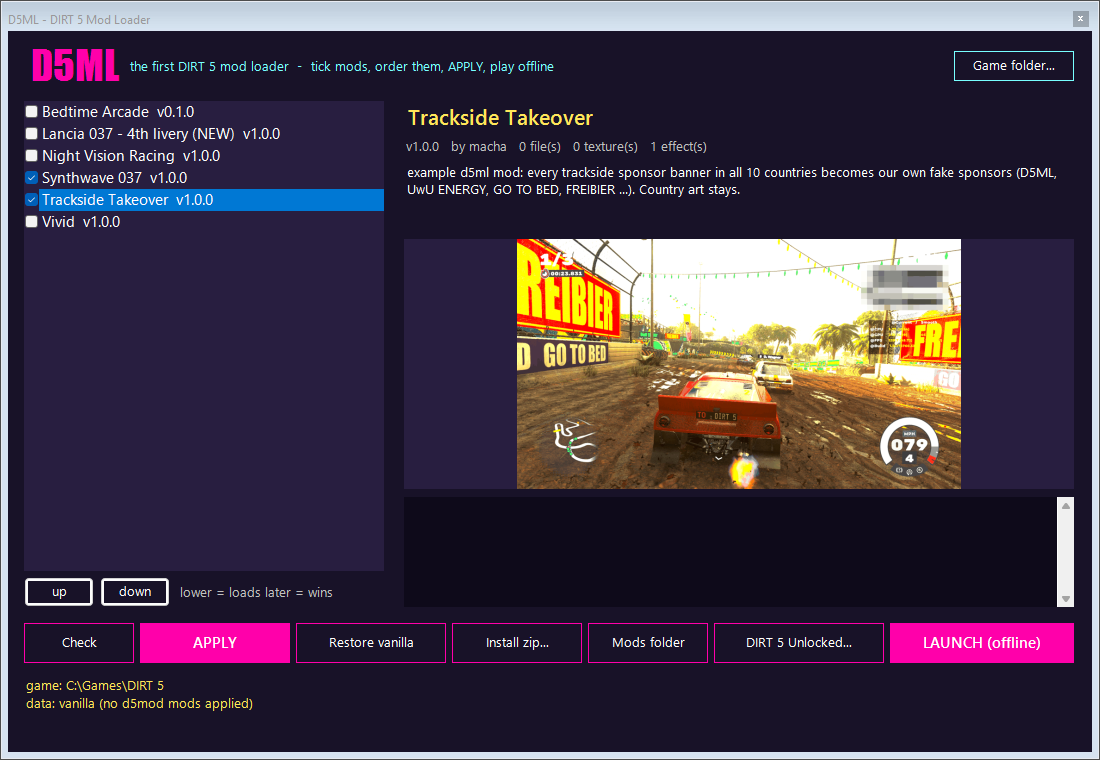
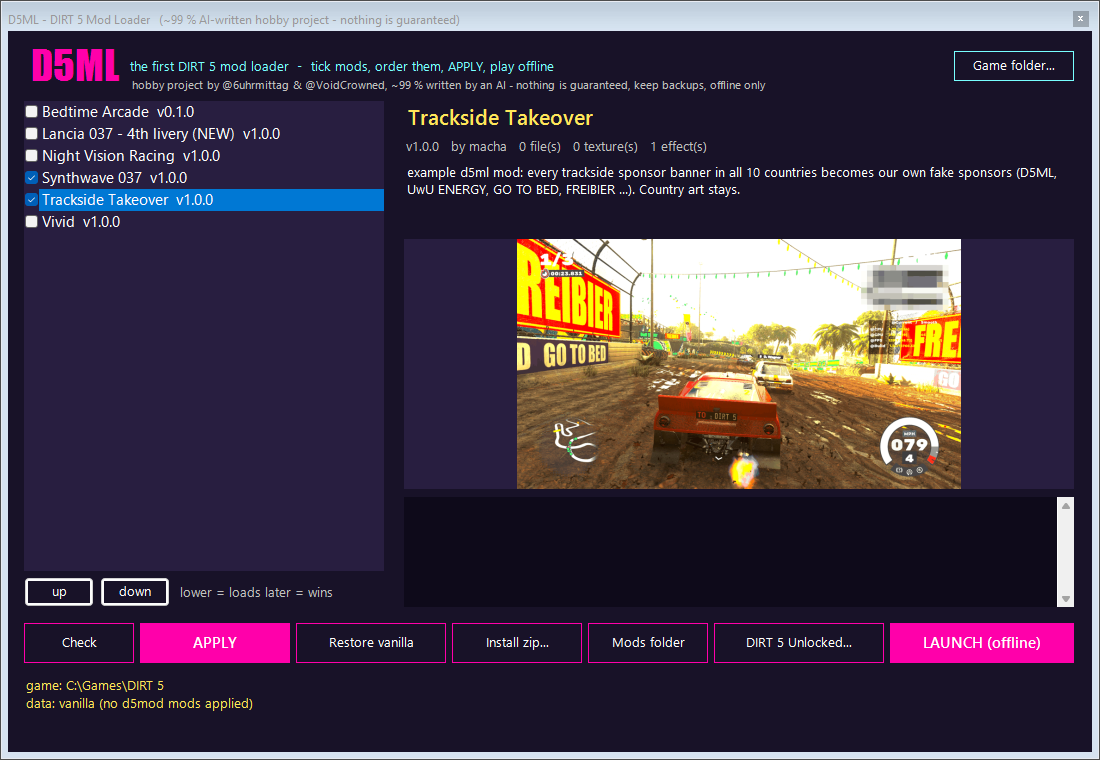
docs: big AI/hobby disclaimer everywhere users meet the project (closes #21)

Changed region(s): [[0.1236, 0.0908, 0.7109, 0.1211], [0.1545, 0.0, 0.4018, 0.0303]]

diff --git a/CLAUDE.md b/CLAUDE.md
@@ -38,7 +38,7 @@ Framing for anything public: **personal & experimental, offline only, not affili
 3. **Leave the install vanilla** after every test (`python scripts\d5mod.py status` must say `vanilla`), and close any game instance you started.
 4. **No game files in git.** `samples/`, `extracted/`, `tools/`, `release/`, own mods under `mods/*` are git-ignored; only `mods/README.md` and `mods/_example-*/` (own art + recipes/effects) are versioned. Never commit `.gtx/.gmp/.dat/.ndx/.vdef/.loc` or extracted JSON — `Pack-Tools.ps1` refuses to package game-format files from the examples.
 5. **Public-safety rules** for every commit, doc and screenshot:
-   - no gamertags, real names, relationship words, Windows user paths, save-data GUIDs/IDs, e-mail addresses in docs;
+   - no gamertags, real names, relationship words, Windows user paths, save-data GUIDs/IDs, e-mail addresses in docs — **exception:** the maintainers' GitHub handles @6uhrmittag and @VoidCrowned in the AI/hobby disclaimer (README, release pages, window titles) are wanted and stay;
    - no names of repack or crack groups, no hints about where the loose install came from — describe it only as "a regular (loose, unpacked) folder install";
    - the loose install's in-game profile name must not appear in public screenshots: **pixelate the race-HUD leaderboard** (fractions of a 16:9 frame: x 0.775–0.972, y 0.105–0.285) in every race screenshot before committing it; check with OCR afterwards;
    - wording: "decoded / reverse-engineered", not "cracked".
@@ -113,7 +113,6 @@ Open work lives in the issues (each carries the facts, file paths and a plan): h
 - **Unlocked:** #6 the 19 untested options, #7 FOV slider via memory
 - **Reach:** #8 Steam build, #15 NexusMods checklist (tools), #19 CI: per-mod builds + automated GitHub releases, #20 one NexusMods page per mod
 - **Research:** #10 Playground Archive, #11 boot scripts, #13 audio, #14 models, #18 memory on the loose build
-- **Docs:** #21 big disclaimer (~99 % AI-written hobby project, nothing guaranteed) — the maintainers' GitHub handles @6uhrmittag and @VoidCrowned are an approved exception to rule 5
 - **Quality:** #9 BC7 modes, #12 harness improvements, #16 Car Companion real stats, #17 party texts for 9 languages
 
 ---

diff --git a/README.md b/README.md
@@ -1,5 +1,12 @@
 # DIRT 5 mods & research — by macha
 
+> [!WARNING]
+> **Read this first.**
+> - **About 99 % of the code, tools and docs in this repository were written by an AI** (Claude Code), directed and play-tested by us. We did not write most of this code ourselves and can't vouch for every line.
+> - This is a **hobby project**: [@6uhrmittag](https://github.com/6uhrmittag) and [@VoidCrowned](https://github.com/VoidCrowned) enjoy DIRT 5 very, very much and just wanted a bit more variety in this lovely game.
+> - **Nothing is guaranteed** — no warranty, no support promise, no roadmap. Things may break, may not work on your version of the game, or may mess up your game data (there is a *Restore vanilla* button; keep your own backups anyway).
+> - Offline only. Not affiliated with or endorsed by Codemasters or EA. No game files are included.
+
 The first mod tools for **DIRT 5** (Codemasters, 2020): a mod loader, a launcher for the game's hidden developer options, a pile of silly splitscreen party mods, and the reverse-engineering notes that made it possible. Built for our own couch sessions, shared for anyone who wants to take the game apart too.
 
 > **Personal & experimental.** Offline single-player/splitscreen only — never take modded data online. Not affiliated with or endorsed by Codemasters or EA. This repository contains **no game files**: every mod is generated from *your own* copy of the game at install time.

diff --git a/docs/release/Unlocked.md b/docs/release/Unlocked.md
@@ -1,5 +1,11 @@
 # DIRT 5 Unlocked — the game's hidden developer options, one click away
 
+> **⚠ Read this first.**
+> - **About 99 % of the code, tools and docs were written by an AI** (Claude Code), directed and play-tested by us. We did not write most of this code ourselves and can't vouch for every line.
+> - **Hobby project:** [@6uhrmittag](https://github.com/6uhrmittag) and [@VoidCrowned](https://github.com/VoidCrowned) enjoy DIRT 5 very, very much and just wanted a bit more variety in this lovely game.
+> - **Nothing is guaranteed** — no warranty, no support promise, no roadmap. Things may break, may not work on your version of the game, or may mess up your game data (*Restore vanilla* exists; keep your own backups anyway).
+> - Offline only. Not affiliated with or endorsed by Codemasters or EA. No game files are included.
+
 DIRT 5 still carries **197 developer command-line options** from Codemasters' own builds. DIRT 5 Unlocked finds them for you: tick boxes, pick a preset, launch. It changes **no game files** — everything is a start option.
 
 ![DIRT 5 Unlocked window](screenshots/unlocked-window.png)

diff --git a/docs/release/D5ML.md b/docs/release/D5ML.md
@@ -1,5 +1,11 @@
 # D5ML — the DIRT 5 Mod Loader
 
+> **⚠ Read this first.**
+> - **About 99 % of the code, tools and docs were written by an AI** (Claude Code), directed and play-tested by us. We did not write most of this code ourselves and can't vouch for every line.
+> - **Hobby project:** [@6uhrmittag](https://github.com/6uhrmittag) and [@VoidCrowned](https://github.com/VoidCrowned) enjoy DIRT 5 very, very much and just wanted a bit more variety in this lovely game.
+> - **Nothing is guaranteed** — no warranty, no support promise, no roadmap. Things may break, may not work on your version of the game, or may mess up your game data (*Restore vanilla* exists; keep your own backups anyway).
+> - Offline only. Not affiliated with or endorsed by Codemasters or EA. No game files are included.
+
 **The first mod loader for DIRT 5.** Drop mods into a folder, tick them, press APPLY, race. One click takes you back to vanilla. Your original game files are never touched.
 
 ![D5ML window](screenshots/d5ml-window.png)

diff --git a/mods/README.md b/mods/README.md
@@ -1,5 +1,7 @@
 # mods/ — D5ML mod folder
 
+> ⚠ ~99 % AI-written hobby project, nothing guaranteed — see the disclaimer at the top of the [README](../README.md).
+
 Every sub-folder is one mod for D5ML (`scripts/D5ML.ps1` window, `scripts/d5ml.py` command line). Only this README and the `_example*` mods are in git — your own mods usually contain files derived from the game and stay local.
 
 ```
